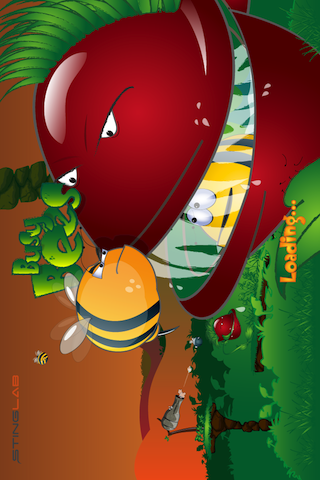
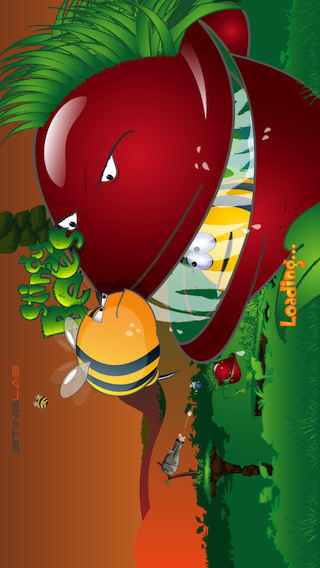
Renamed to Stingy Bees.

diff --git a/Beezle/Classes/Util/GameCenterManager.m b/Beezle/Classes/Util/GameCenterManager.m
@@ -8,7 +8,7 @@
 #import "cocos2d.h"
 #import "Logger.h"
 
-static NSString *LEADERBOARD_ID = @"default";
+static NSString *LEADERBOARD_ID = @"collectedPollen";
 
 @implementation GameCenterManager
 
